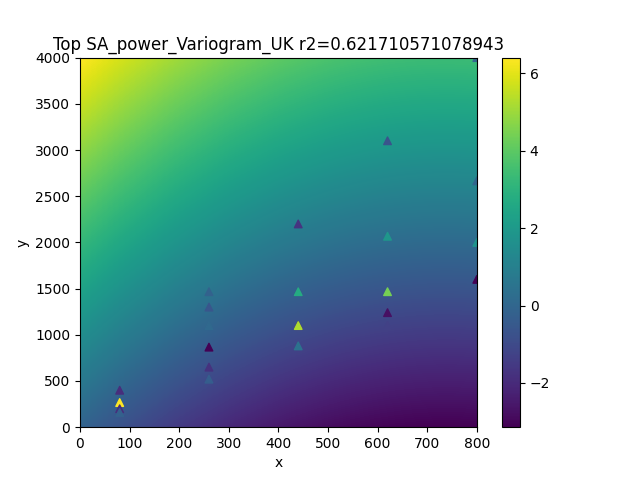
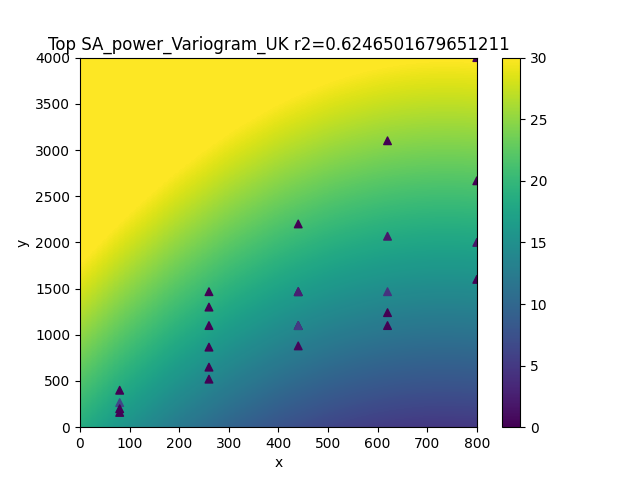
UK finished & bug fixes
OK and UK LOO process was using default variograms regardless of the models setting, resulting in identical r^2 values.

diff --git a/v.03 Optimization of Surface Roughness/Classes.py b/v.03 Optimization of Surface Roughness/Classes.py
@@ -151,7 +151,7 @@ class OrdinaryKrigning:
             C, a, nugget, anisotropy_factor = params
             predictions = []
             for i in range(len(self.points)):
-                model = OrdinaryKrigning(np.delete(self.points, i, axis=0), np.delete(self.zvals, i))
+                model = OrdinaryKrigning(np.delete(self.points, i, axis=0), np.delete(self.zvals, i),Variogram=self.variogram)
                 model.ManualParamSet(*params)
                 model.Matrixsetup()
                 estimate = model.SinglePoint(*self.points[i])
@@ -192,14 +192,16 @@ class OrdinaryKrigning:
             print('zmap not generated')
             quit()  
         plt.imshow(self.zarray,aspect='auto',extent=extent,origin='lower')
-        plt.scatter(self.points[:,0],self.points[:,1],marker='^',s=30,c=self.zvals)
+        plt.scatter(self.points[:,0],self.points[:,1],marker='^',s=30,c=self.zvals_org)
+        plt.clim(0,np.max(self.zvals_org))
         plt.colorbar()
         plt.title(title)
         plt.xlabel(xtitle)
         plt.ylabel(ytitle)
         if saveplot==True:
             plt.savefig(address)
-        plt.show()
+        #plt.show()
+        plt.close()
 
 
 
@@ -208,52 +210,76 @@ class OrdinaryKrigning:
 
 
 class UniversalKriging(OrdinaryKrigning):
-    def __init__(self, Points, Zvals, Variogram='gaussian',trendfunc='cubic'):
+    def __init__(self, Points, Zvals, Variogram='gaussian', trendfunc='cubic'):
         super().__init__(Points, Zvals, Variogram)
-        
-        if trendfunc == 'quadratic':
-            def trend_func(trend_params, x, y):
-                return trend_params[0] + trend_params[1]*x + trend_params[2]*y + trend_params[3]*x**2 + trend_params[4]*y**2
-        elif trendfunc == 'cubic':
-            def trend_func(trend_params, x, y):
-                return trend_params[0] + trend_params[1]*x + trend_params[2]*y + trend_params[3]*x**2 + trend_params[4]*y**2 + trend_params[5]*x**3 + trend_params[6]*y**3
-        elif trendfunc == 'sinusoidal':
-            def trend_func(trend_params, x, y):
-                return trend_params[0] + trend_params[1]*np.sin(x) + trend_params[2]*np.sin(y)
-        elif trendfunc == 'logarithmic':
-            def trend_func(trend_params, x, y):
-                return trend_params[0] + trend_params[1]*np.log(x) + trend_params[2]*np.log(y)
-        elif trendfunc == 'exponential':
-            def trend_func(trend_params, x, y):
-                return trend_params[0] * np.exp(trend_params[1]*x + trend_params[2]*y)
-        elif trendfunc == 'mixed':
-            def trend_func(trend_params, x, y):
-                return trend_params[0] + trend_params[1]*x + trend_params[2]*y + trend_params[3]*x**2 + trend_params[4]*y**2 + trend_params[5]*np.sin(x) + trend_params[6]*np.sin(y)
-        else:
+        #immutable instance of the Z coordanites
+        self.zvals_org = np.copy(self.zvals)
+        self.trend_func_setting=trendfunc
+
+        #define trend function for UK
+        trend_functions = {
+            'quadratic': {
+                'func': lambda a0,a1,a2,a3,a4,x, y: a0 + a1*x + a2*y + a3*x**2 + a4*y**2,
+                'matrix': lambda: np.column_stack((np.ones(len(self.points)), self.points[:, 0], self.points[:, 1], self.points[:, 0]**2, self.points[:, 1]**2))
+            },
+            'cubic': {
+                'func': lambda a0,a1,a2,a3,a4,a5,a6,x, y: a0 + a1*x + a2*y + a3*x**2 + a4*y**2 + a5*x**3 + a6*y**3,
+                'matrix': lambda: np.column_stack((np.ones(len(self.points)), self.points[:, 0], self.points[:, 1], self.points[:, 0]**2, self.points[:, 1]**2, self.points[:, 0]**3, self.points[:, 1]**3))
+            },
+            'interaction': {
+                'func': lambda a0,a1,a2,a3,x, y: a0 + a1*x + a2*y + a3*x*y,
+                'matrix': lambda: np.column_stack((np.ones(len(self.points)), self.points[:, 0], self.points[:, 1], self.points[:, 0] * self.points[:, 1]))
+            },
+            'hyperbolic': {
+                'func': lambda a0,a1,x, y: a0 + a1*np.sqrt(x**2 + y**2),
+                'matrix': lambda: np.column_stack((np.ones(len(self.points)), np.sqrt(self.points[:, 0]**2 + self.points[:, 1]**2)))
+            },
+            'inverse': {
+                'func': lambda a0,a1,a2,x, y: a0 + a1/x + a2/y,
+                'matrix': lambda: np.column_stack((np.ones(len(self.points)), 1/self.points[:, 0], 1/self.points[:, 1]))
+            },
+            'interaction_squared': {
+            'func': lambda a0,a1,a2,a3,a4,a5,a6,x, y: a0 + a1*x + a2*y + a3*x**2 + a4*y**2 + a5*x*y + a6*(x**2)*(y**2),
+            'matrix': lambda: np.column_stack((np.ones(len(self.points)), self.points[:, 0], self.points[:, 1], self.points[:, 0]**2, self.points[:, 1]**2, self.points[:, 0]*self.points[:, 1], (self.points[:, 0]**2)*(self.points[:, 1]**2)))
+            },
+            'exponential': {
+            'func': lambda a0,a1,a2,x, y: a0 * np.exp(a1*x + a2*y),
+            'matrix': lambda: np.column_stack((np.ones(len(self.points)), np.exp(self.points[:, 0]), np.exp(self.points[:, 1])))
+            },
+
+        }
+        #error handling
+        if trendfunc not in trend_functions:
             print('No valid trend function selected')
             quit()
-            
-        self.trend_function = np.vectorize(trend_func, excluded=['trend_params'])
-
+        #assign var for calc_trend step
+        self.trend_func = trend_functions[trendfunc]['func']
+        self.design_matrix_func = trend_functions[trendfunc]['matrix']
+        self.trend_function = np.vectorize(self.trend_func, excluded=['trend_params'])
 
     def calc_trend_coefficients(self):
         # Define the residuals function
         residuals = np.vectorize(lambda trend_params: self.trend_function(trend_params, self.points[:, 0], self.points[:, 1] / self.anisotropy_factor) - self.zvals)
 
+        # Prepare the design matrix based on the selected trend function
+        X = self.design_matrix_func()
+
         # Estimate the trend parameters
-        self.trend_params, _, _, _ = np.linalg.lstsq(np.column_stack((np.ones(len(self.points)), self.points[:, 0], self.points[:, 1] / self.anisotropy_factor, self.points[:, 0]**2, (self.points[:, 1] / self.anisotropy_factor)**2)), self.zvals, rcond=None)
-        
+        self.trend_params, _, _, _ = np.linalg.lstsq(X, self.zvals, rcond=None)
+
         # Subtract the estimated trend from the data
-        self.zvals -= self.trend_function(self.trend_params, self.points[:, 0], self.points[:, 1] / self.anisotropy_factor)
+        self.zvals -= self.trend_function(*self.trend_params, self.points[:, 0], self.points[:, 1] / self.anisotropy_factor)
+
 
 
 
     def SinglePoint(self, Xo, Yo, training_points=None):
         # First, add back the trend to the actual observations
-        zvals_original = self.zvals + self.trend_function(self.trend_params, self.points[:, 0], self.points[:, 1])
+        zvals_original = self.zvals + self.trend_function(*self.trend_params, self.points[:, 0], self.points[:, 1])
 
         # Perform kriging on detrended data and add the trend back
-        return super().SinglePoint(Xo, Yo, training_points) + self.trend_function(self.trend_params, Xo, Yo)
+        return super().SinglePoint(Xo, Yo, training_points) + self.trend_function(*self.trend_params, Xo, Yo)
+
 
 
 
@@ -275,8 +301,6 @@ class UniversalKriging(OrdinaryKrigning):
             # Get the kriging estimate for the point
             z[i] = self.SinglePoint(*point)
 
-        # Add the trend back to the kriging estimates
-        z += self.trend_function(self.trend_params, X.flatten(), Y.flatten())
 
         # Reshape the results to match the shape of the original grid
         self.zarray = z.reshape(X.shape)
@@ -296,13 +320,13 @@ class UniversalKriging(OrdinaryKrigning):
             C, a, nugget, anisotropy_factor = params
             predictions = []
             for i in range(len(self.points)):
-                model = UniversalKriging(np.delete(self.points, i, axis=0), np.delete(self.zvals, i))
+                model = UniversalKriging(np.delete(self.points, i, axis=0), np.delete(self.zvals, i),trendfunc=self.trend_func_setting,Variogram=self.variogram)
                 model.ManualParamSet(*params)
-                model.Matrixsetup()
                 model.calc_trend_coefficients()
+                model.Matrixsetup()
                 estimate = model.SinglePoint(*self.points[i])
                 predictions.append(estimate)
-            correlation_matrix = np.corrcoef(predictions, self.zvals)
+            correlation_matrix = np.corrcoef(predictions, self.zvals_org)
             correlation_xy = correlation_matrix[0,1]
             self.LOOr2 = correlation_xy**2
             

diff --git a/v.03 Optimization of Surface Roughness/kriging_main.py b/v.03 Optimization of Surface Roughness/kriging_main.py
@@ -9,20 +9,55 @@ xi_col=0
 yi_col=1
 zi_col=4
 #resolution
-resolution=10
+resolution=100
 #kriging config
 Params=[]
-Variogram='power'
-#plotting
-saveplot=True
+combs=[('gaussian', 'quadratic'),
+ ('gaussian', 'cubic'),
+ ('gaussian', 'interaction'),
+ ('gaussian', 'hyperbolic'),
+ ('gaussian', 'inverse'),
+ ('gaussian', 'interaction_squared'),
+ ('spherical', 'quadratic'),
+ ('spherical', 'cubic'),
+ ('spherical', 'interaction'),
+ ('spherical', 'hyperbolic'),
+ ('spherical', 'inverse'),
+ ('spherical', 'interaction_squared'),
+ ('exponential', 'quadratic'),
+ ('exponential', 'cubic'),
+ ('exponential', 'interaction'),
+ ('exponential', 'hyperbolic'),
+ ('exponential', 'inverse'),
+ ('exponential', 'interaction_squared'),
+ ('linear', 'quadratic'),
+ ('linear', 'cubic'),
+ ('linear', 'interaction'),
+ ('linear', 'hyperbolic'),
+ ('linear', 'inverse'),
+ ('linear', 'interaction_squared'),
+ ('power', 'quadratic'),
+ ('power', 'cubic'),
+ ('power', 'interaction'),
+ ('power', 'hyperbolic'),
+ ('power', 'inverse'),
+ ('power', 'interaction_squared')]
+
+for i in combs:
+
+    Variogram=i[0]
+    trendfunc=i[1]
+    #plotting
+    saveplot=True
 
 
-loadeddata=np.loadtxt('v.03 Optimization of Surface Roughness\data\surface_roughness.csv',delimiter=',',skiprows=1)
-points=loadeddata[:,[xi_col,yi_col]]
-zi=loadeddata[:,zi_col]
+    loadeddata=np.loadtxt('data\surface_roughness.csv',delimiter=',',skiprows=1)
+    points=loadeddata[:,[xi_col,yi_col]]
+    zi=loadeddata[:,zi_col]
 
-krige=UniversalKriging(points,zi,Variogram=Variogram)
-krige.AutoKrige(step=resolution)
-krige.Plot(f'Top SA_{Variogram}_Variogram_UK r2={krige.LOOr2}',xtitle='x',ytitle='y',saveplot=saveplot,address=f'v.03 Optimization of Surface Roughness\\figs\\Top_SA_{Variogram}_UK.png',extent=[0, 800, 0, 4000])
-print(krige.LOOr2)
-print(krige.params)
+    krige=UniversalKriging(points,zi,Variogram=Variogram,trendfunc=trendfunc)
+    krige.AutoKrige(step=resolution)
+    krige.Plot(f'Top SA_{Variogram}_Variogram_UK r2={krige.LOOr2}',xtitle='Power',ytitle='Speed',saveplot=saveplot,address=f'figs\Top_SA_{Variogram}_{trendfunc}_UK.png',extent=[0, 900, 0, 5000])
+    print(krige.LOOr2)
+    print(krige.params)
+    
